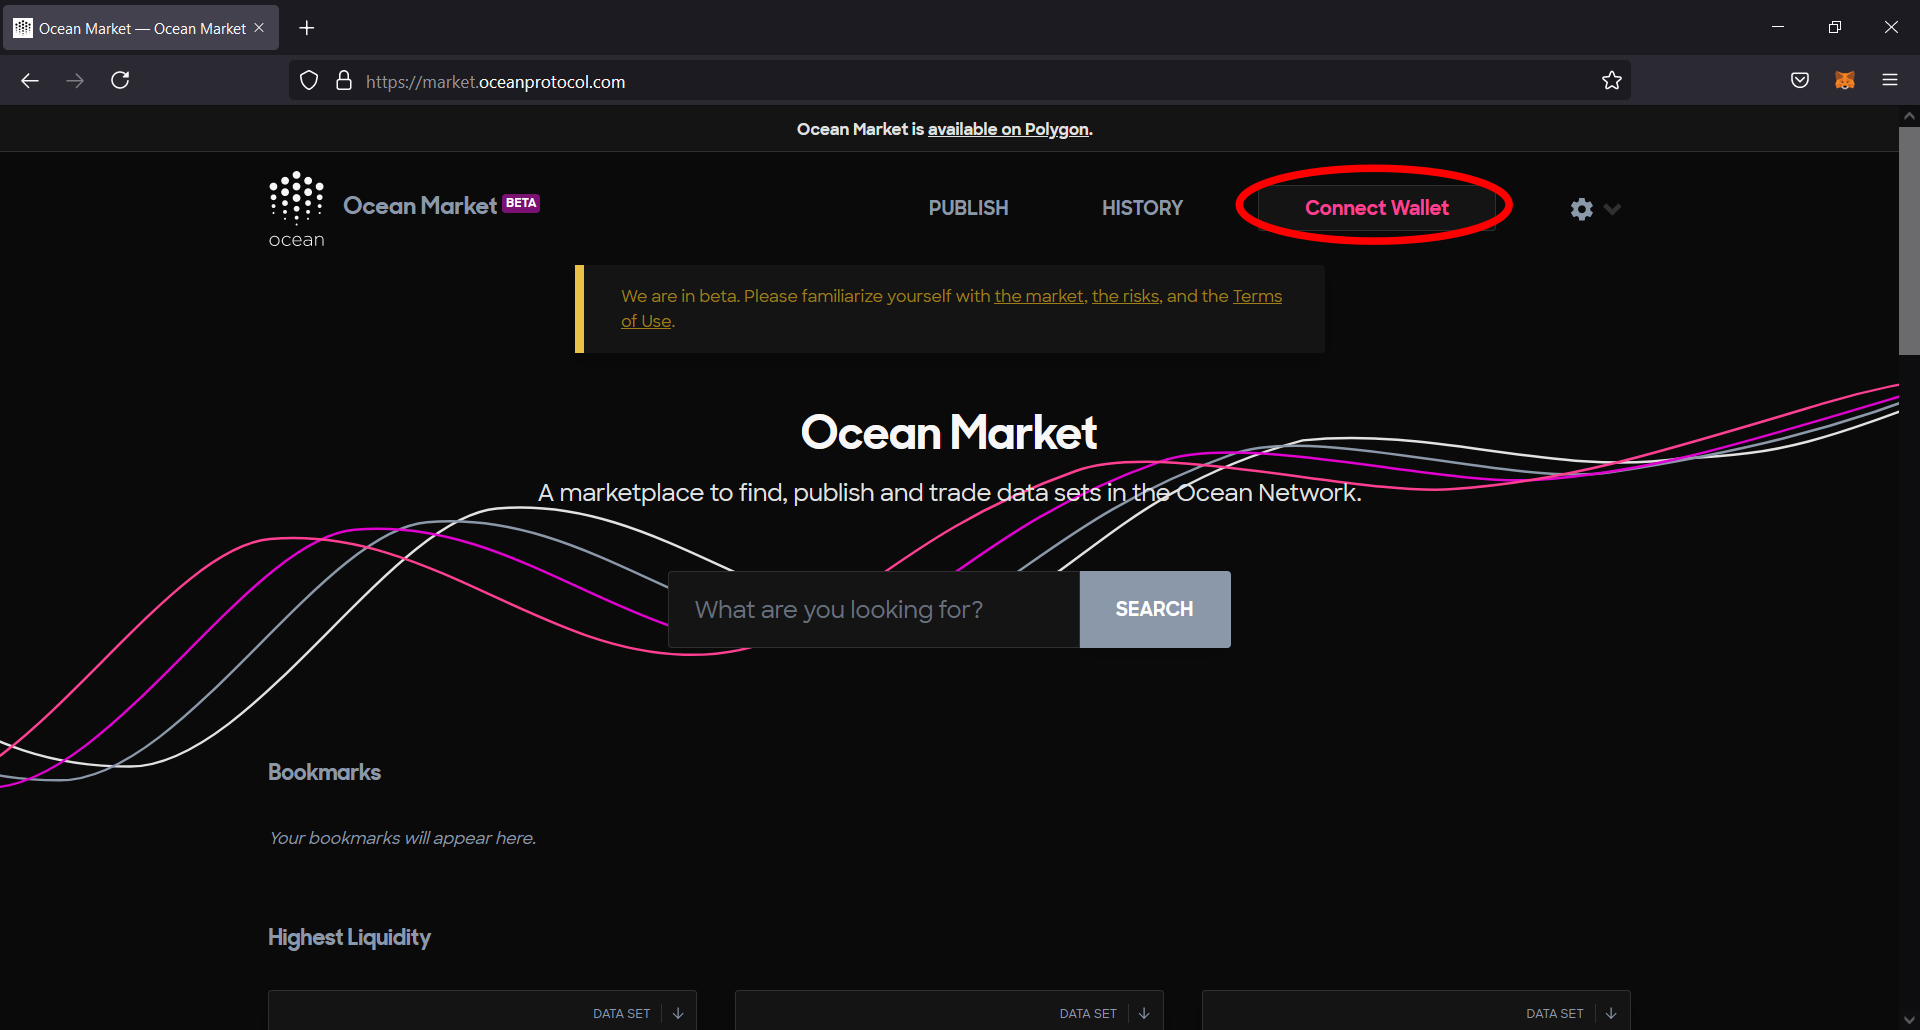
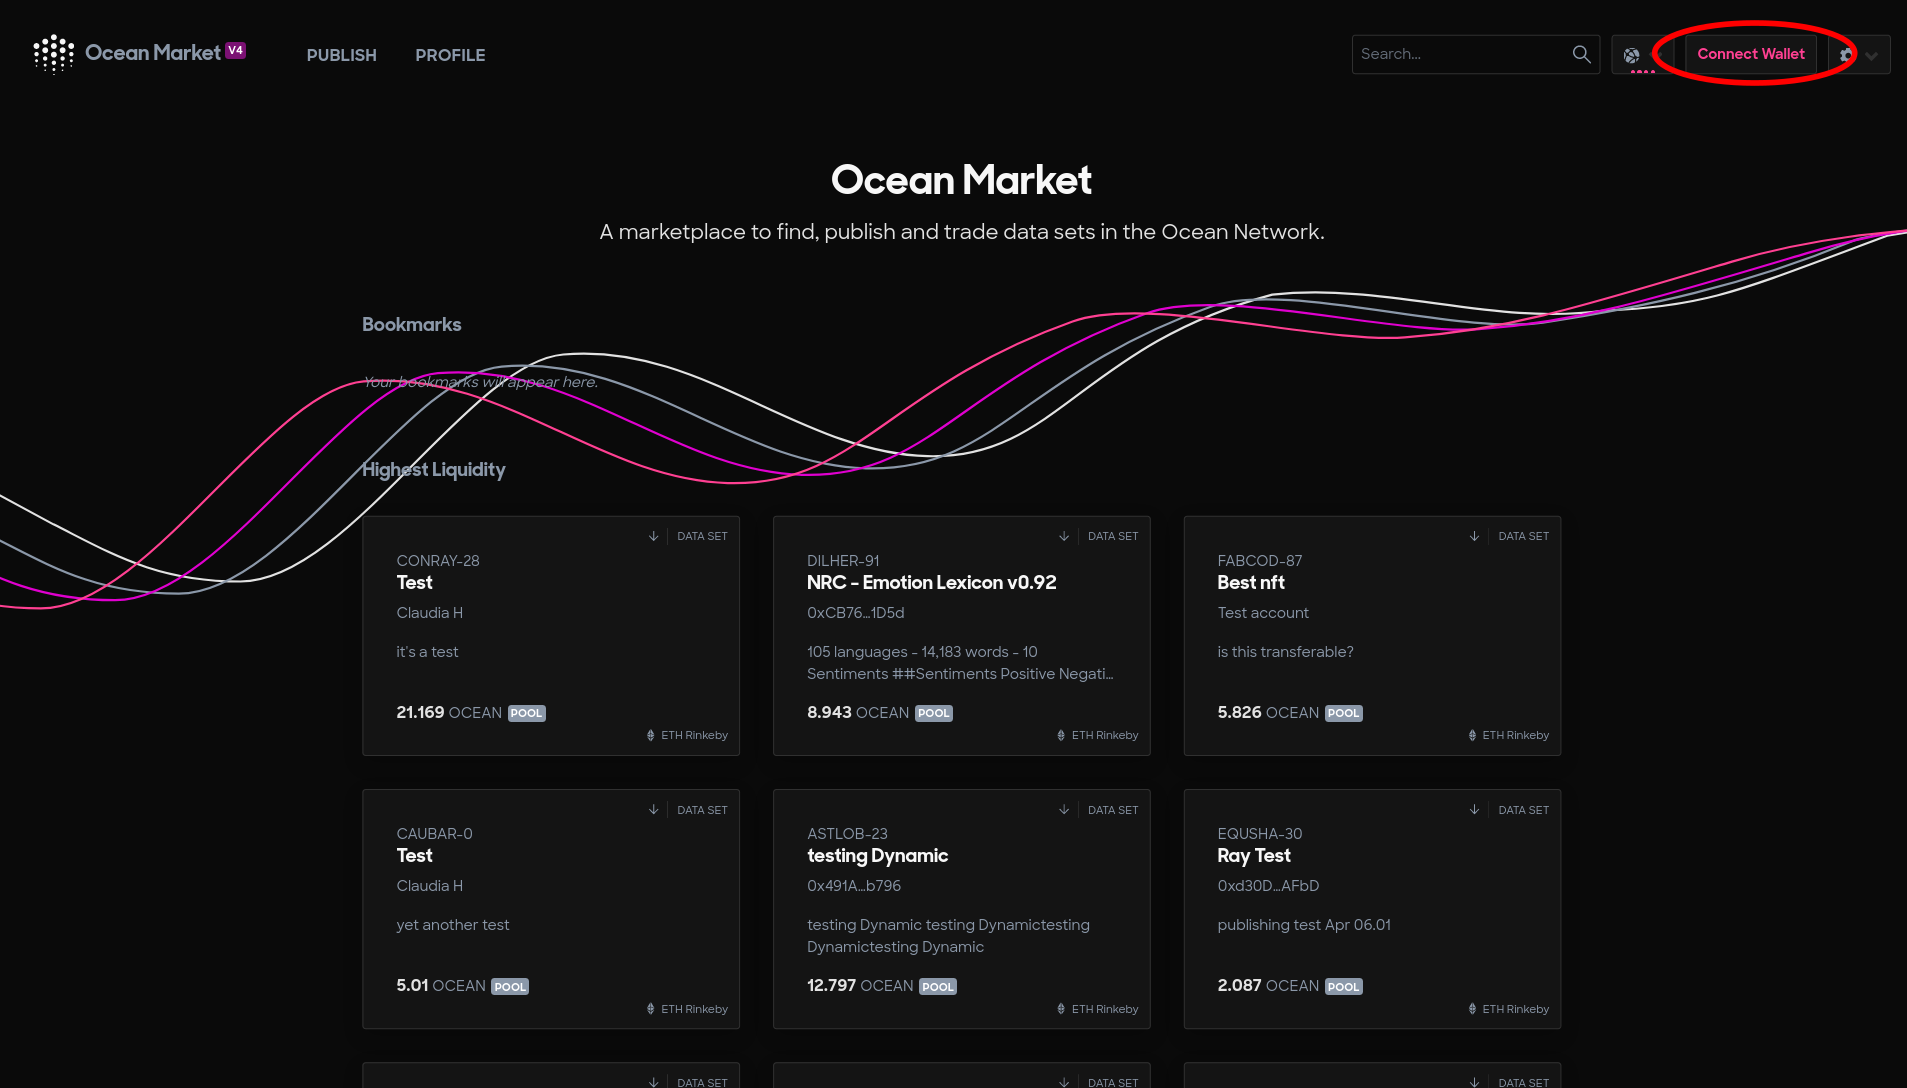
Issue-#912: V4 publish tutorial

diff --git a/content/tutorials/marketplace-publish-data-asset.md b/content/tutorials/marketplace-publish-data-asset.md
@@ -1,6 +1,6 @@
 ---
 title: Publish a Data asset on Ocean Market place.
-description: 
+description: A tutorial to publish an asset using Ocean Market
 ---
 
 ## What can be published?
@@ -9,62 +9,65 @@ Ocean Market provides a convenient interface for individuals as well as organiza
 
 ## Tutorial
 
-### Step 1 - Publish data asset
+### Connecting wallet and navigating to publish page
 
-1. Go to https://market.oceanprotocol.com
+1. Go to <a href="https://v4.market.oceanprotocol.com " target="_blank">Ocean Market</a>
+
 2. Connect wallet.
+
    ![connect wallet](images/marketplace/connect-wallet.png 'Connect wallet')
+
+   In this tutorial, we will be using Rinkeby testnet.
 
 3. Go to publish page.
 
    ![publish page](images/marketplace/publish.png 'Go to publish page')
 
-4. Fill the publish form.
+### Step 1 - Fill metadata
 
-   ![publish form part-1](images/marketplace/publish-form-1.png 'Publish form part-1')
-   ![publish form part-2](images/marketplace/publish-form-2.png 'Publish form part-2')
-   ![publish form part-3](images/marketplace/publish-form-3.png 'Publish form part-3')
+Fill the metadata.
 
-5. After clicking submit, approve the transactions in the wallet. Here, you can see Metamask window.
+![publish part-1](images/marketplace/publish-1.png 'Fill metadata')
 
-   Deploy a new datatoken contract.
-   ![publish submit part-1](images/marketplace/submit-1.png 'Create datatoken contract')
-   Contract interaction.
-   ![publish submit part-2](images/marketplace/submit-2.png 'Contract interaction')
+### Step 2 - Specify access type
 
-6. Now, after the transactions are completed, the below screen will appear.
+![publish part-2](images/marketplace/publish-2.png 'Specify access type')
 
-   ![publish success](images/marketplace/submit-success.png 'Success')
+### Step 3 - Set pricing
 
-### Step 2 - Create pricing
+Before the asset is published, the user(s) can choose the pricing option as per their choice. Only the publisher can set the pricing option and cannot be changed once the publisher selects any one method.
 
-Once the data asset is published, the user(s) can choose the pricing option as per their choice. Only the publisher can set the pricing option and cannot be changed once the publisher selects any one method.
-
-There are 2 options for settings the price of an asset on Ocean Marketplace.
+There are 3 options for settings the price of an asset on Ocean Marketplace.
 
 1. Fixed pricing
 2. Dynamic pricing (using Balancer pools)
+3. Free pricing
 
-#### Create fixed pricing for a data set
+Here, we are selecting dynamic pricing.
 
-Connect to the Ocean Marketplace with the publisher account and go to the published asset.
+![publish part-3](images/marketplace/publish-3.png 'Set pricing')
 
-If the pricing is not set Marketplace will provide an option to create pricing. Click on the create pricing button as shown below.
-![pricing part-1](images/marketplace/pricing-1.png 'Create pricing page')
+### Step 4 - Preview and confirm
 
-Select the pricing type. Here, we are selecting **Fixed** pricing option. Publisher can set the value of datatoken with respect to Ocean Tokens.
+![publish part-4](images/marketplace/publish-4.png 'Preview')
 
-![pricing part-1](images/marketplace/pricing-type.png 'Select pricing type')
+### Step 5 - Send blockchain transactions
 
-![pricing part-2](images/marketplace/pricing-fixed-2.png 'Mint data tokens')
+![publish part-5](images/marketplace/publish-5.png 'Transaction 1 - ')
+![publish part-6](images/marketplace/publish-6.png 'Transaction 2 - ')
+![publish part-7](images/marketplace/publish-7.png 'Transaction 3 - ')
 
-![pricing part-3](images/marketplace/pricing-fixed-3.png 'Transaction')
+### Confirmation
 
-![pricing part-4](images/marketplace/pricing-fixed-4.png 'Approve spend limit')
+Now, after the transactions are completed, the below screen will appear.
 
-## Video
+![publish success](images/marketplace/publish-8.png 'Successful publish')
 
-[![IMAGE ALT TEXT HERE](https://img.youtube.com/vi/KiDg0ry6oV4/0.jpg)](https://www.youtube.com/watch?v=KiDg0ry6oV4)
+To view `Create tokens and pricing` transaction on testnet click <a href="https://rinkeby.etherscan.io//tx/0x599a506d8429e3bd8b827f7ad2ca893ca866c8259a17d88b352c0345842e67d0" target="_blank">here</a>
+
+To view `Publish DDO` transaction on testnet click <a href="https://rinkeby.etherscan.io/tx/0x8d1a1f0d833f4e46432351d16013bb4fcdd6b05e65a2fe3e599f3a90e4d35478" target="_blank">here</a>
+
+To view published the asset on Ocean Market click <a href="https://v4.market.oceanprotocol.com/asset/did:op:63920bb64ad1e79bed73214e5fd574fc68c0977cdba5b7031aa98a3a83e28197" target="_blank">here</a>
 
 ## Other Articles
 
